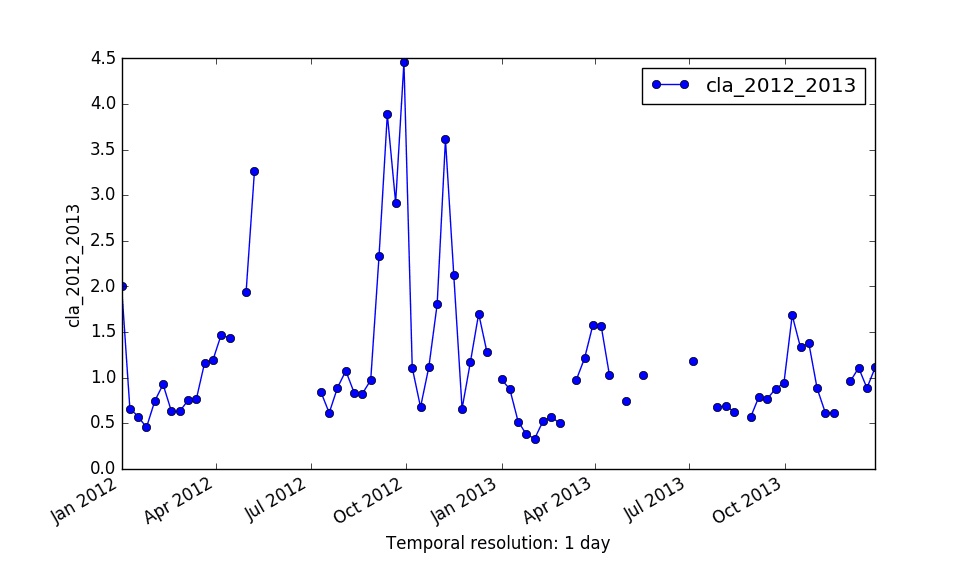
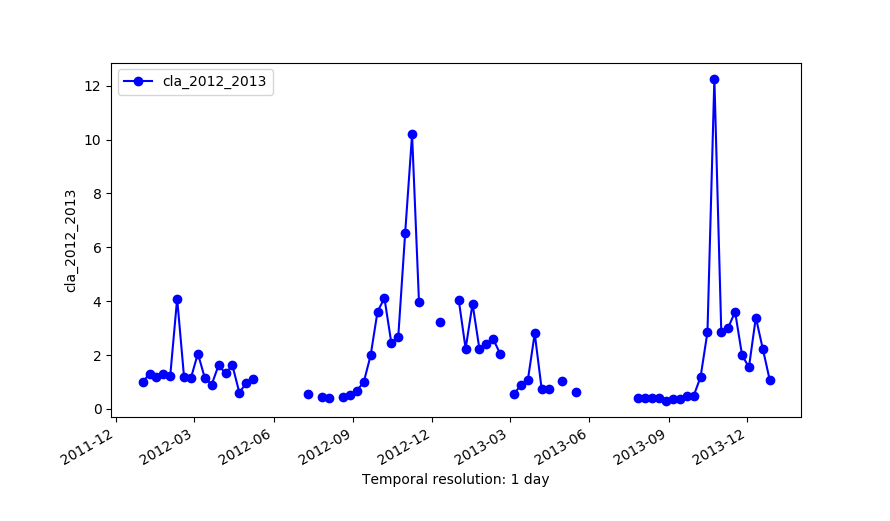
r.series.lwr addon manual: new explanation and example + figs
git-svn-id: https://svn.osgeo.org/grass/grass-addons@71591 15284696-431f-4ddb-bdfa-cd5b030d7da7

diff --git a/grass7/raster/r.series.lwr/r.series.lwr.html b/grass7/raster/r.series.lwr/r.series.lwr.html
@@ -56,7 +56,18 @@ The module uses an adaptive bandwidth to fit the polynomial and
 searches for <em>order + 1 + dod</em> valid values around the current 
 observation. The degree of over-determination (dod) is the user defined 
 number of extra temporal neighbours that should be considered for the 
-estimation of the value at each time step.  
+estimation of the value at each time step.
+
+<p>
+There is a trade-off between the goodness of fit to existing/original
+data and avoiding overshoots in gaps. This trade-off can be observed in
+the example below when <em>order=2</em> is used along with <em>dod=0</em>. 
+In this case, the reconstruction will most of the time be an exact match
+to the input data because LWR will try to copy the slopes in the data,
+including those very steep slopes, but this might create overshootings
+in gaps. The risk of overshootings can be alleviated by increasing dod
+(i.e. dod > 0), which will smooth the output. The effect of a dod=5 can
+be observed in the examples below.
 
 <h2>NOTES</h2>
 
@@ -111,45 +122,47 @@ text file with a new line separated list of raster map names.
 
 <h2>EXAMPLES</h2>
 
-We use a time series of the Chlorophyll-a concentration level 3 product from 
-MODIS Aqua (spatial resolution approx. 4 km and temporal resolution 8 days) 
-to exemplify different parameter settings in r.series.lwr. We will first 
-execute the module with default options to interpolate all existent gaps 
-with a polynomial of first order (i.e. order=1). Second, we change to a 
-second order polynomial (i.e. order=2). The third case shows how to use 
-<em>-l/-h</em> flags in combination with <em>fet</em> to remove outliers. 
-In this example we will remove only high outiliers (-h flag) and we set a 
-value of fet relative to the values of Chlorophyll-a concentration. The 
-fourth example demonstrates the use of <em>dod</em> to consider 
-more time steps when fitting the polynomial at each observation (Note that 
-the resulting series is smoother, i.e. the fluctuations have been smoothed). 
-Finally, we set a value for <em>maxgap</em>, so that only temporal gaps equal 
-to or smaller than the maximum gap will be interpolated.
+We use a time series of the Chlorophyll-a concentration level 3 product 
+from MODIS Aqua (spatial resolution approx. 4 km and temporal 
+resolution 8 days) to exemplify different parameter settings in 
+r.series.lwr. We will first execute the module with default options to 
+interpolate all existent gaps with a polynomial of first order (i.e. 
+order=1). Second, we change to a second order polynomial (i.e. 
+order=2). The third case shows how to use <em>-l/-h</em> flags in 
+combination with <em>fet</em> to remove outliers. In this example we 
+will remove only high outiliers (-h flag) and we set a value of fet 
+relative to the values of Chlorophyll-a concentration. The fourth 
+example demonstrates the use of <em>dod</em> to consider more time 
+steps when fitting the polynomial at each observation (Note that the 
+resulting series is smoother, i.e. the fluctuations have been 
+smoothed). Finally, we set a value for <em>maxgap</em>, so that only 
+temporal gaps equal to or smaller than the maximum gap will be 
+interpolated.
 
 <div class="code"><pre>
 # list of maps
 maplist=`g.list type=raster pattern=A201[2-3]*chlor_a* sep=,`
 
 # 1. default settings (order=1)
-r.series.lwr input=$maplist suffix=_lwr0 order=1 weight=tricube
+r.series.lwr input=$maplist suffix=_lwr1 order=1 weight=tricube
 
 # 2. change to order=2
-r.series.lwr input=$maplist suffix=_lwr1 order=2 weight=tricube
-  
-# 3. set -h flag to identify and remove high outliers with fit error tolerance (fet=0.5) 
-r.series.lwr -h input=$maplist suffix=_lwr2 order=2 weight=tricube fet=0.5
- 
-# 4. set degree of overdetermination (dod) to consider more time steps (smoothes the series)
+r.series.lwr input=$maplist suffix=_lwr2 order=2 weight=tricube
+
+# 3. set degree of overdetermination (dod) to consider more time steps (smoothes the series)
 r.series.lwr -i input=$maplist suffix=_lwr3 order=2 weight=tricube dod=5
 
+# 4. set dod > 1 and -h flag to identify and remove high outliers with fit error tolerance (fet=0.5) 
+r.series.lwr -i -h input=$maplist suffix=_lwr4 order=2 weight=tricube dod=5 fet=0.5
+
 # 5. set maxgap (temporal gaps longer than maxgap will not be filled)
-r.series.lwr -i input=$maplist suffix=_lwr4 order=2 weight=tricube maxgap=4
+r.series.lwr -i input=$maplist suffix=_lwr5 order=2 weight=tricube maxgap=4
 </pre></div>
 
 We now create strds for the different executions of LWR.
 
 <div class="code"><pre>
-for i in `seq 0 4` ; do
+for i in `seq 1 5` ; do
 
  # create time series with lwr outputs
  t.create type=strds temporaltype=absolute output=cla_lwr${i} \
@@ -187,27 +200,34 @@ done
 
 Finally, we use <a href="g.gui.tplot.htlm">g.gui.tplot</a> to inspect 
 the results of the interpolations with the different settings and 
-compare with the original series at a random pixel.
+compare with the original series at a random pixel 
+(e.g. -61.196485623,-45.3232161874):
+
+<div class="code"><pre>
+g.gui.tplot strds=cla_2012_2013 coordinates=-61.196485623,-45.3232161874
+g.gui.tplot strds=cla_lwr1,cla_lwr2 coordinates=-61.196485623,-45.3232161874
+g.gui.tplot strds=cla_lwr3,cla_lwr4 coordinates=-61.196485623,-45.3232161874
+g.gui.tplot strds=cla_lwr5,cla_2012_2013 coordinates=-61.196485623,-45.3232161874
+</pre></div>
 
 <p>
 <div align="center" style="margin: 10px">
 <a href="r_series_lwr_cla_orig.png">
-<img src="r_series_lwr_cla_orig.png" width="450" alt="Original time series" border=0>
+<img src="r_series_lwr_cla_orig.png" width="490" alt="Original time series" border=0>
 </a><br>
-<a href="r_series_lwr_cla_lwr0.png">
-<img src="r_series_lwr_cla_lwr0.png" width="400" alt="Default settings" border=0>
-<a href="r_series_lwr_cla_lwr1.png">
-<img src="r_series_lwr_cla_lwr1.png" width="400" alt="order=2" border=0>
+<i>Original series (cla_2012_2013)</i><br>
+<a href="r_series_lwr_cla_lwr1_lwr2.png">
+<img src="r_series_lwr_cla_lwr1_lwr2.png" width="490" alt="Comparison order=1 vs order=2" border=0>
 </a><br>
-<a href="r_series_lwr_cla_lwr2.png">
-<img src="r_series_lwr_cla_lwr2.png" width="400" alt="-h and fet=0.5" border=0>
-<a href="r_series_lwr_cla_lwr3.png">
-<img src="r_series_lwr_cla_lwr3.png" width="400" alt="dod=5" border=0>
+<i>Outputs of LWR with order=1 (cla_lwr1) and order=2 (cla_lwr2).</i><br>
+<a href="r_series_lwr_cla_lwr3_lwr4.png">
+<img src="r_series_lwr_cla_lwr3_lwr4.png" width="490" alt="Comparison dod > 1 vs dod > 1 plus -h and fet" border=0>
 </a><br>
-<a href="r_series_lwr_cla_lwr4.png">
-<img src="r_series_lwr_cla_lwr4.png" width="450" alt="maxgap=4" border=0>
+<i>Outputs of LWR with dod=5 (cla_lwr3) and dod=5 plus -h flag and fet=0.5 (cla_lwr4).</i><br>
+<a href="r_series_lwr_cla_orig_lwr5.png">
+<img src="r_series_lwr_cla_orig_lwr5.png" width="490" alt="Gap-filled series up to maxgap=4" border=0>
 </a><br>
-<i>Comparison of the outputs of LWR with different parameter settings.</i>
+<i>Original series (cla_2012_2013) and the output of LWR with maxgap=4 (cla_lwr5).</i>
 </div>
 
 <p>
